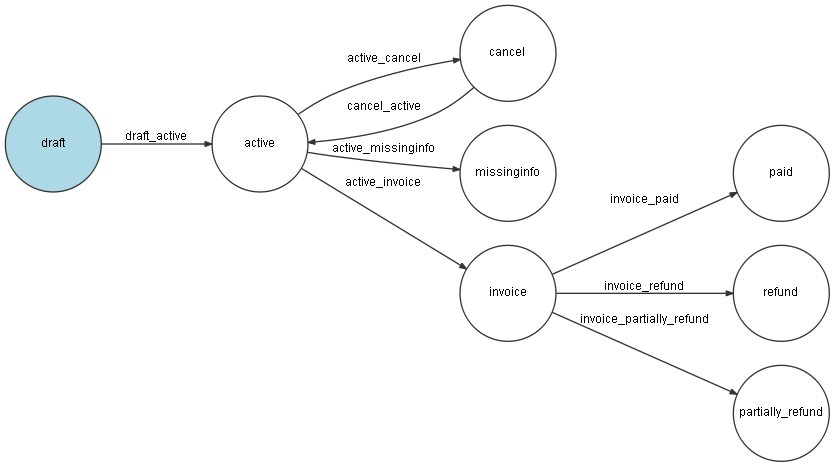
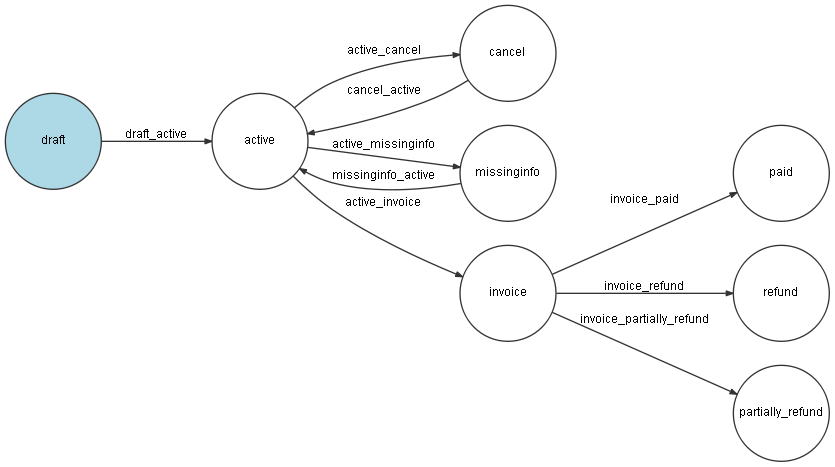
added some restrictions for request review

diff --git a/Scanorders2/src/Oleg/TranslationalResearchBundle/Controller/RequestController.php b/Scanorders2/src/Oleg/TranslationalResearchBundle/Controller/RequestController.php
@@ -127,6 +127,10 @@ class RequestController extends Controller
                 $msg
             );
 
+            $eventType = "Request Created";
+            $msg = "New Request with ID ".$transresRequest->getId()." has been successfully submitted for the project ID ".$project->getOid();
+            $transresUtil->setEventLog($transresRequest,$eventType,$msg);
+
             return $this->redirectToRoute('translationalresearch_request_show', array('id' => $transresRequest->getId()));
         }
 
@@ -159,6 +163,7 @@ class RequestController extends Controller
         }
 
         //$userSecUtil = $this->get('user_security_utility');
+        $transresUtil = $this->container->get('transres_util');
         $user = $this->get('security.token_storage')->getToken()->getUser();
         $em = $this->getDoctrine()->getManager();
 
@@ -242,8 +247,16 @@ class RequestController extends Controller
                 $msg
             );
 
+            $eventType = "Request Updated";
+            $msg = "Request ID ".$transresRequest->getId() ." has been updated.";
+            $transresUtil->setEventLog($transresRequest,$eventType,$msg);
+
             return $this->redirectToRoute('translationalresearch_request_show', array('id' => $transresRequest->getId()));
         }
+
+        $eventType = "Request Viewed";
+        $msg = "Request ID ".$transresRequest->getId() ." has been viewed on the edit page.";
+        $transresUtil->setEventLog($transresRequest,$eventType,$msg);
 
         return array(
             'transresRequest' => $transresRequest,
@@ -275,6 +288,7 @@ class RequestController extends Controller
             return $this->redirect( $this->generateUrl($this->container->getParameter('translationalresearch.sitename').'-nopermission') );
         }
 
+        $transresUtil = $this->container->get('transres_util');
         $transresRequestUtil = $this->container->get('transres_request_util');
         //$em = $this->getDoctrine()->getManager();
         //$user = $this->get('security.token_storage')->getToken()->getUser();
@@ -295,6 +309,10 @@ class RequestController extends Controller
         if( $fee ) {
             $feeHtml = " (fee $".$fee.")";
         }
+
+        $eventType = "Request Viewed";
+        $msg = "Request ID ".$transresRequest->getId() ." has been viewed on the show review page.";
+        $transresUtil->setEventLog($transresRequest,$eventType,$msg);
 
         return array(
             'transresRequest' => $transresRequest,

diff --git a/Scanorders2/src/Oleg/TranslationalResearchBundle/Util/TransResRequestUtil.php b/Scanorders2/src/Oleg/TranslationalResearchBundle/Util/TransResRequestUtil.php
@@ -379,6 +379,24 @@ class TransResRequestUtil
         return true;
     }
 
+    public function isRequestProgressReviewable($transresRequest) {
+        return $this->isRequestReviewableByRequestAndStateMachineType($transresRequest,"progress");
+    }
+    public function isRequestBillingReviewable($transresRequest) {
+        return $this->isRequestReviewableByRequestAndStateMachineType($transresRequest,"billing");
+    }
+    public function isRequestReviewableByRequestAndStateMachineType( $transresRequest, $statMachineType ) {
+        $workflow = $this->getWorkflowByStateMachineType($statMachineType);
+        $transitions = $workflow->getEnabledTransitions($transresRequest);
+        foreach( $transitions as $transition ) {
+            $tos = $transition->getTos();
+            if( count($tos) > 0 ) {
+                return true;
+            }
+        }
+        return false;
+    }
+
     public function getReviewEnabledLinkActions( $transresRequest, $statMachineType ) {
         //exit("get review links");
         $transresUtil = $this->container->get('transres_util');
